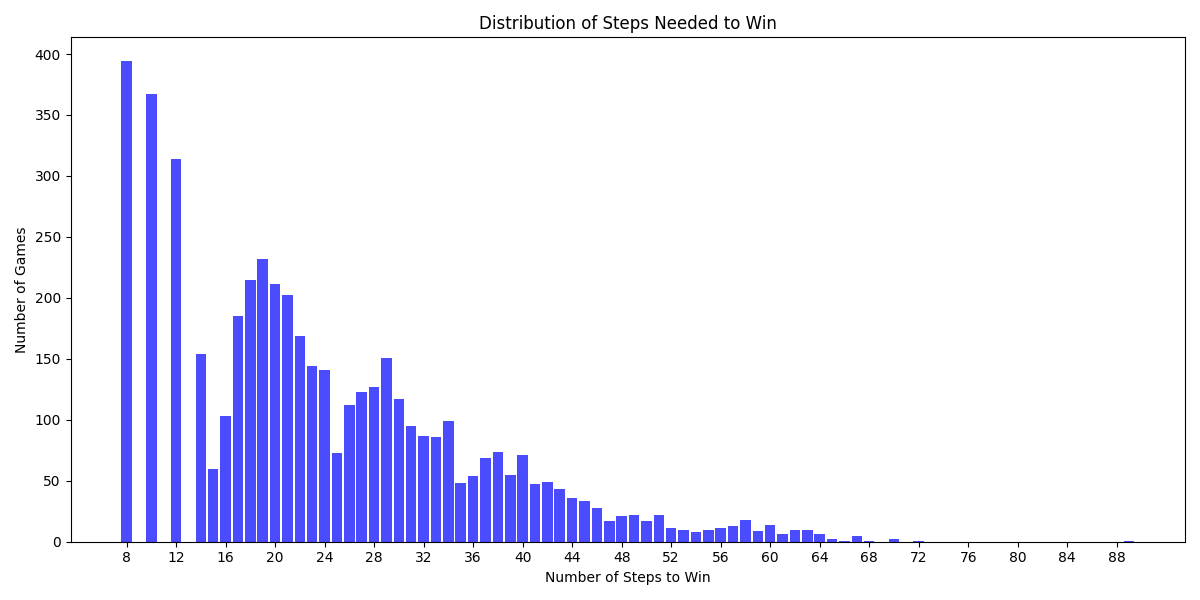
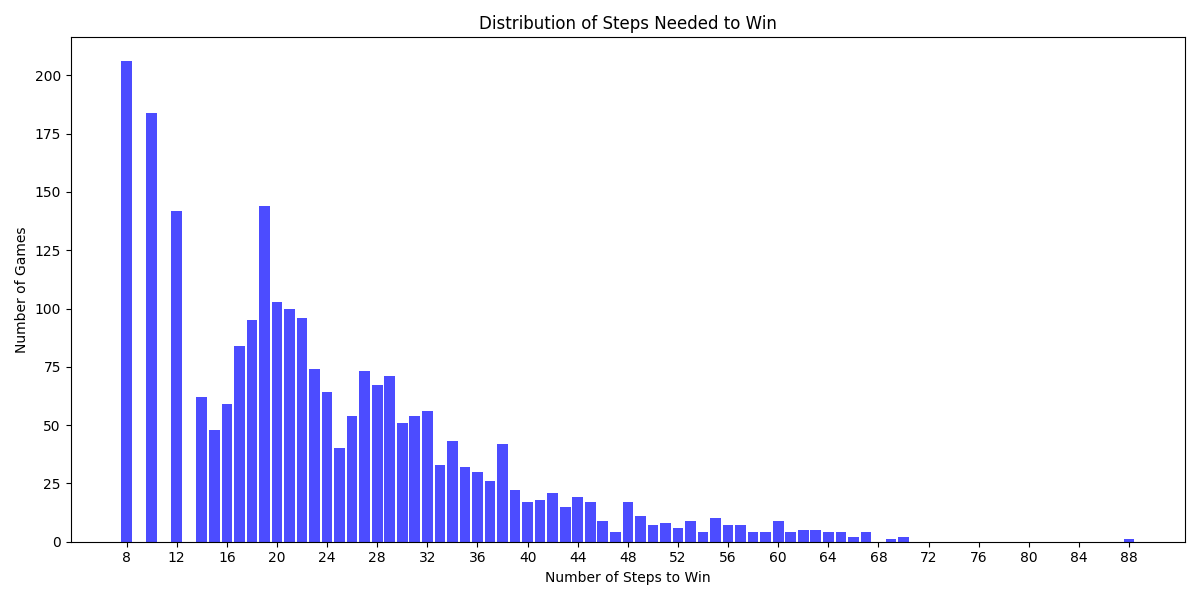
cleaned some things in logic.pl

diff --git a/first_order_logic/fol_agent.py b/first_order_logic/fol_agent.py
@@ -30,11 +30,9 @@ class FOLAgent:
         list(self.prolog.query("retractall(pit(_, _))"))
         list(self.prolog.query("retractall(gold(_, _))"))
         list(self.prolog.query("retractall(agent(_, _, _))"))
-        list(self.prolog.query("retractall(start(_, _))"))
         list(self.prolog.query("retractall(orientation(_, _))"))
         list(self.prolog.query("retractall(kb(_, _, _, _))"))
         list(self.prolog.query("retractall(result(_, _))"))
-        list(self.prolog.query("retractall(grid_size(_))"))
         list(self.prolog.query("retractall(log(_))"))
 
         # Add Wumpus position
@@ -54,12 +52,7 @@ class FOLAgent:
         self.prolog.assertz(f"agent({ax}, {ay}, {self.state_counter})")
         self.prolog.assertz(f"orientation({['north', 'east', 'south', 'west'][self.env.agent_dir]}, {self.state_counter})")
 
-        # Add starting position
-        sx, sy = self.env.entrance
-        self.prolog.assertz(f"start({sx}, {sy})")
-
         size = self.env.grid_size
-        self.prolog.assertz(f"grid_size({size})")
 
         # Initialize knowledge base
         list(self.prolog.query(f"initialize_kb({size})"))
@@ -183,17 +176,18 @@ if __name__ == "__main__":
     default_map = False
     testing = True
     log = False
-    GAME_COUNT = 1_000
+    GAME_COUNT = 5_000
+    checkpoint_interval = 100
     winCount = 0
     deadCount = 0
-    possibleCount = 0
+    notPossibleCount = 0
     steps_to_win = []
     env = WumpusWorldEnv(default_map=default_map, num_of_pits=3)
 
-    for _ in range(GAME_COUNT) if testing else range(1):
+    for i in range(GAME_COUNT) if testing else range(1):
         _, info = env.reset()
         if not info["possible_to_win"]:
-            possibleCount += 1
+            notPossibleCount += 1
             continue
         agent = FOLAgent(env, rendering=rendering, log=log)
         info = agent.run()
@@ -202,10 +196,13 @@ if __name__ == "__main__":
             winCount += 1
         if info["dead"]:
             deadCount += 1
+
+        if testing and i % checkpoint_interval == 0:
+            print(f"Game {i + 1}/{GAME_COUNT} completed. Won: {winCount}, Dead: {deadCount}, Possible to win: {notPossibleCount}")
     if testing:
         print(f"Test completed. Won {winCount}/{GAME_COUNT} games. Win rate: {winCount/GAME_COUNT * 100:.2f}%")
         print(f"Survived {GAME_COUNT - deadCount}/{GAME_COUNT} games. Survival rate: {(GAME_COUNT - deadCount) / GAME_COUNT:.2%}")
-        print(f"Not possible to win in {possibleCount}/{GAME_COUNT} games. Not possible rate: {(possibleCount / GAME_COUNT):.2%}")
+        print(f"Not possible to win in {notPossibleCount}/{GAME_COUNT} games. Not possible rate: {(notPossibleCount / GAME_COUNT):.2%}")
 
         if steps_to_win:
             save_steps_plot(steps_to_win)
